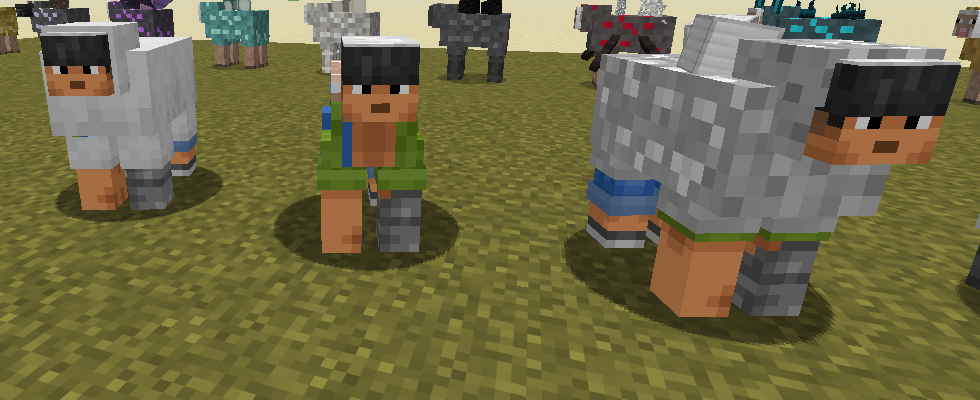
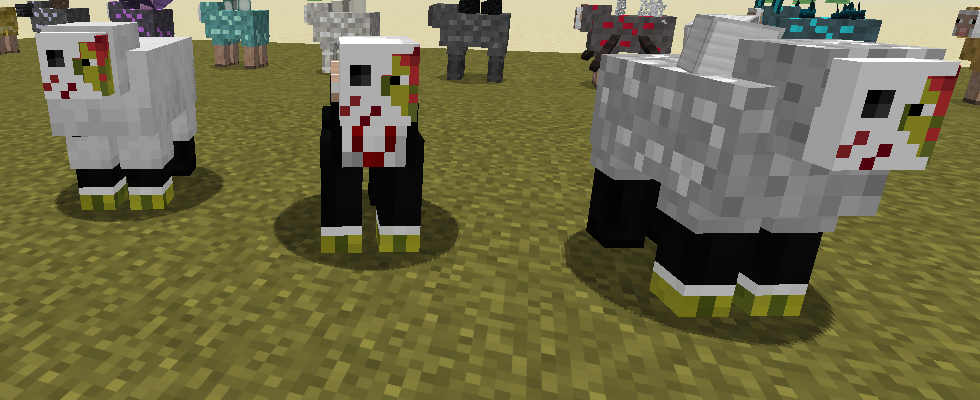
Feed a Melon Slice to give a sheep GiantMelon's skin
The skin item is now a Melon Slice instead of a Player Head, and it
always gives the skin and head of the player with UUID
62776558-b5f6-4b75-a2ef-009f8dc9fc52. A sheep that already has the
skin doesn't eat another slice. Player Heads no longer change sheep.

Claude-Session: https://claude.ai/code/session_012iurxobutw9xMP3SqHHLFE

diff --git a/src/main/java/com/jax3/barelyfunctionalcontraptions/sheep/gametest/ModGameTests.java b/src/main/java/com/jax3/barelyfunctionalcontraptions/sheep/gametest/ModGameTests.java
@@ -147,7 +147,7 @@ public final class ModGameTests {
         TESTS.put("glowing_sheep_lights_the_block_it_stands_in", ModGameTests::glowingSheepLight);
         TESTS.put("ghast_sheep_screams_like_a_ghast", ModGameTests::ghastSheepSounds);
         TESTS.put("ghast_sheep_is_twice_the_size", ModGameTests::ghastSheepScale);
-        TESTS.put("player_head_gives_a_sheep_that_players_skin", ModGameTests::playerHeadSkin);
+        TESTS.put("melon_slice_gives_a_sheep_the_skin", ModGameTests::melonSliceSkin);
         RELOAD_TESTS.put("generated_resource_keeps_infusion", ModGameTests::generatedResourceKeepsInfusion);
         TESTS.forEach((name, fn) -> FUNCTIONS.register(name, () -> fn));
         RELOAD_TESTS.forEach((name, fn) -> FUNCTIONS.register(name, () -> fn));
@@ -448,26 +448,24 @@ public final class ModGameTests {
         });
     }
 
-    private static void playerHeadSkin(GameTestHelper h) {
+    private static void melonSliceSkin(GameTestHelper h) {
         var skinAttachment = com.jax3.barelyfunctionalcontraptions.sheep.registry.ModAttachments.SHEEP_SKIN;
-        // A head with a player in it: the sheep takes that player's skin (by UUID), and the head is used up.
-        java.util.UUID id = java.util.UUID.fromString("069a79f4-44e9-4726-a5be-fca90e38aaf5");
-        ItemStack named = new ItemStack(Items.PLAYER_HEAD, 2);
-        named.set(net.minecraft.core.component.DataComponents.PROFILE,
-                net.minecraft.world.item.component.ResolvableProfile.createResolved(new com.mojang.authlib.GameProfile(id, "Notch")));
+        java.util.UUID id = java.util.UUID.fromString("62776558-b5f6-4b75-a2ef-009f8dc9fc52");
+        // A Melon Slice gives the sheep that player's skin and head, and is eaten.
         Sheep sheep = sheep(h);
-        Player player = playerHolding(h, named);
+        Player player = playerHolding(h, new ItemStack(Items.MELON_SLICE, 3));
         feed(player, sheep);
         var skin = sheep.getData(skinAttachment).profile();
-        h.assertTrue(skin.isPresent() && skin.get().partialProfile().id().equals(id), "the sheep wears the head's player, got " + skin);
-        h.assertTrue(player.getMainHandItem().getCount() == 1, "one head is used up, left " + player.getMainHandItem().getCount());
-        h.assertTrue(!SheepInfusionEvents.getInfusion(sheep).isInfused(), "a head is only a look, not an infusion");
-        // A blank head: the feeding player's own skin.
+        h.assertTrue(skin.isPresent() && skin.get().partialProfile().id().equals(id), "the sheep wears " + id + ", got " + skin);
+        h.assertTrue(player.getMainHandItem().getCount() == 2, "one slice is eaten, left " + player.getMainHandItem().getCount());
+        h.assertTrue(!SheepInfusionEvents.getInfusion(sheep).isInfused(), "a melon slice is only a look, not an infusion");
+        // A sheep that already has the skin doesn't eat another.
+        feed(player, sheep);
+        h.assertTrue(player.getMainHandItem().getCount() == 2, "no second slice is eaten, left " + player.getMainHandItem().getCount());
+        // Player Heads don't change the skin any more.
         Sheep other = sheepAt(h, new BlockPos(1, 1, 1), null);
-        Player feeder = playerHolding(h, new ItemStack(Items.PLAYER_HEAD));
-        feed(feeder, other);
-        var own = other.getData(skinAttachment).profile();
-        h.assertTrue(own.isPresent() && own.get().partialProfile().id().equals(feeder.getUUID()), "a blank head gives the feeder's skin, got " + own);
+        feed(playerHolding(h, new ItemStack(Items.PLAYER_HEAD)), other);
+        h.assertTrue(!other.hasData(skinAttachment) || other.getData(skinAttachment).profile().isEmpty(), "a Player Head does nothing");
         // The skin is saved with the sheep.
         var saved = net.minecraft.world.level.storage.TagValueOutput.createWithContext(net.minecraft.util.ProblemReporter.DISCARDING, h.getLevel().registryAccess());
         sheep.saveWithoutId(saved);

diff --git a/src/main/java/com/jax3/barelyfunctionalcontraptions/sheep/entity/SheepInfusionEvents.java b/src/main/java/com/jax3/barelyfunctionalcontraptions/sheep/entity/SheepInfusionEvents.java
@@ -65,8 +65,8 @@ public final class SheepInfusionEvents {
             return;
         }
 
-        if (stack.is(net.minecraft.world.item.Items.PLAYER_HEAD) && target instanceof Sheep sheep) {
-            feedPlayerHead(event, player, sheep, stack);
+        if (stack.is(net.minecraft.world.item.Items.MELON_SLICE) && target instanceof Sheep sheep) {
+            feedMelonSlice(event, player, sheep, stack);
             return;
         }
         if (!ModConfigs.getBool(ModConfigs.SERVER.feedingEnabled)) return;
@@ -88,25 +88,30 @@ public final class SheepInfusionEvents {
         }
     }
 
+    /** The player whose skin and head a sheep takes when fed a Melon Slice. */
+    public static final java.util.UUID MELON_SKIN_PLAYER = java.util.UUID.fromString("62776558-b5f6-4b75-a2ef-009f8dc9fc52");
+
     /**
-     * Feeding a sheep a Player Head gives it that player's skin: the head's own player (by UUID, as a placed head shows
-     * it), or the feeding player's for a blank head. One head is used up (not in creative). This is only a look: it
-     * works on any sheep, infused or not, and doesn't change what it drops.
+     * Feeding a sheep a Melon Slice gives it the skin and head of one particular player ({@link #MELON_SKIN_PLAYER}).
+     * The sheep stores that player's UUID and clients look the skin up the way a placed Player Head does. One slice is
+     * used up (not in creative). This is only a look: it works on any sheep, infused or not, and doesn't change what
+     * it drops. A sheep that already has the skin doesn't eat another slice.
      */
-    private static void feedPlayerHead(PlayerInteractEvent.EntityInteract event, Player player, Sheep sheep, ItemStack stack) {
+    private static void feedMelonSlice(PlayerInteractEvent.EntityInteract event, Player player, Sheep sheep, ItemStack stack) {
+        var attachment = com.jax3.barelyfunctionalcontraptions.sheep.registry.ModAttachments.SHEEP_SKIN;
+        if (sheep.hasData(attachment) && sheep.getData(attachment).profile()
+                .map(p -> MELON_SKIN_PLAYER.equals(p.partialProfile().id())).orElse(false)) {
+            return; // already wearing it: leave the slice alone
+        }
         event.setCanceled(true);
         event.setCancellationResult(InteractionResult.SUCCESS);
         if (!(event.getLevel() instanceof ServerLevel level)) return;
-        net.minecraft.world.item.component.ResolvableProfile profile = stack.get(net.minecraft.core.component.DataComponents.PROFILE);
-        if (profile == null) profile = net.minecraft.world.item.component.ResolvableProfile.createResolved(player.getGameProfile());
-        sheep.setData(com.jax3.barelyfunctionalcontraptions.sheep.registry.ModAttachments.SHEEP_SKIN, SheepSkin.of(profile));
+        sheep.setData(attachment, SheepSkin.of(net.minecraft.world.item.component.ResolvableProfile.createUnresolved(MELON_SKIN_PLAYER)));
         stack.consume(1, player);
-        level.playSound(null, sheep.getX(), sheep.getY(), sheep.getZ(), SoundEvents.ARMOR_EQUIP_LEATHER.value(), SoundSource.NEUTRAL, 1.0F, 1.0F);
+        level.playSound(null, sheep.getX(), sheep.getY(), sheep.getZ(), SoundEvents.GENERIC_EAT.value(), SoundSource.NEUTRAL, 1.0F, 1.0F);
         level.sendParticles(ParticleTypes.HAPPY_VILLAGER, sheep.getX(), sheep.getY() + sheep.getBbHeight() * 0.7, sheep.getZ(), 8, 0.3, 0.3, 0.3, 0.02);
-        Component name = profile.name().<Component>map(Component::literal)
-                .orElseGet(() -> Component.translatable("message.barelyfunctionalcontraptions.skin.unknown_player"));
-        player.sendOverlayMessage(Component.translatable("message.barelyfunctionalcontraptions.skin.applied", name));
-        sheep.gameEvent(GameEvent.ENTITY_INTERACT, player);
+        player.sendOverlayMessage(Component.translatable("message.barelyfunctionalcontraptions.skin.applied"));
+        sheep.gameEvent(GameEvent.EAT, player);
     }
 
     /**

diff --git a/src/main/java/com/jax3/barelyfunctionalcontraptions/sheep/client/DevScreenshotHarness.java b/src/main/java/com/jax3/barelyfunctionalcontraptions/sheep/client/DevScreenshotHarness.java
@@ -1174,9 +1174,9 @@ public final class DevScreenshotHarness {
             SheepInfusionEvents.setInfusion(sh, new SheepInfusion(Optional.of(ResourcefulSheep.id(THEMED[i])), 9, 0));
             level.addFreshEntity(sh);
         }
-        // Sheep fed Player Heads, facing the camera at an angle: the harness player's own skin (plain, sheared to
-        // show the body, and infused with iron) and another player's by UUID.
-        String[][] skinned = {{"self", "", "false"}, {"self", "", "true"}, {"self", "iron", "false"}, {"069a79f4-44e9-4726-a5be-fca90e38aaf5", "", "false"}};
+        // Sheep fed Melon Slices, facing the camera at an angle: plain, sheared to show the body, and infused with iron.
+        String melon = SheepInfusionEvents.MELON_SKIN_PLAYER.toString();
+        String[][] skinned = {{melon, "", "false"}, {melon, "", "true"}, {melon, "iron", "false"}};
         for (int i = 0; i < skinned.length; i++) {
             Sheep sh = EntityTypes.SHEEP.create(level, EntitySpawnReason.COMMAND);
             sh.snapTo(o.getX() - 1.5 + i * 2.0, o.getY(), o.getZ() + 2.5, -20, 0);
@@ -1186,9 +1186,7 @@ public final class DevScreenshotHarness {
             sh.yBodyRotO = -20;
             sh.setNoAi(true);
             sh.setSheared(Boolean.parseBoolean(skinned[i][2]));
-            var profile = skinned[i][0].equals("self")
-                    ? net.minecraft.world.item.component.ResolvableProfile.createResolved(player.getGameProfile())
-                    : net.minecraft.world.item.component.ResolvableProfile.createUnresolved(java.util.UUID.fromString(skinned[i][0]));
+            var profile = net.minecraft.world.item.component.ResolvableProfile.createUnresolved(java.util.UUID.fromString(skinned[i][0]));
             sh.setData(com.jax3.barelyfunctionalcontraptions.sheep.registry.ModAttachments.SHEEP_SKIN, com.jax3.barelyfunctionalcontraptions.sheep.entity.SheepSkin.of(profile));
             if (!skinned[i][1].isEmpty()) {
                 SheepInfusionEvents.setInfusion(sh, new SheepInfusion(Optional.of(ResourcefulSheep.id(skinned[i][1])), 9, 0));

diff --git a/src/main/java/com/jax3/barelyfunctionalcontraptions/sheep/registry/ModAttachments.java b/src/main/java/com/jax3/barelyfunctionalcontraptions/sheep/registry/ModAttachments.java
@@ -17,7 +17,7 @@ public final class ModAttachments {
                     .sync(SheepInfusion.STREAM_CODEC)
                     .build());
 
-    /** The player whose skin a sheep wears (fed a Player Head). Persisted only when set, and synced to tracking clients. */
+    /** The player whose skin a sheep wears (fed a Melon Slice). Persisted only when set, and synced to tracking clients. */
     public static final Supplier<AttachmentType<com.jax3.barelyfunctionalcontraptions.sheep.entity.SheepSkin>> SHEEP_SKIN = REGISTER.register("sheep_skin",
             () -> AttachmentType.builder(() -> com.jax3.barelyfunctionalcontraptions.sheep.entity.SheepSkin.NONE)
                     .serialize(com.jax3.barelyfunctionalcontraptions.sheep.entity.SheepSkin.CODEC, skin -> skin.profile().isPresent())

diff --git a/src/main/java/com/jax3/barelyfunctionalcontraptions/sheep/entity/SheepSkin.java b/src/main/java/com/jax3/barelyfunctionalcontraptions/sheep/entity/SheepSkin.java
@@ -11,8 +11,9 @@ import net.minecraft.world.item.component.ResolvableProfile;
 /**
  * The player whose skin a sheep wears, stored on the sheep as a data attachment (saved and synced to clients).
  *
- * <p>Set by feeding the sheep a Player Head: the head's player (its UUID, and name if it has one), or for a blank
- * head the player who fed it. Clients look the skin up by that profile, the same way a placed Player Head does.</p>
+ * <p>Set by feeding the sheep a Melon Slice, which gives it the skin and head of one particular player
+ * ({@link SheepInfusionEvents#MELON_SKIN_PLAYER}). Clients look the skin up by that profile, the same way a placed
+ * Player Head does.</p>
  *
  * @param profile the player, empty when the sheep wears no skin
  */

diff --git a/src/main/java/com/jax3/barelyfunctionalcontraptions/sheep/client/PlayerSkinSheepLayer.java b/src/main/java/com/jax3/barelyfunctionalcontraptions/sheep/client/PlayerSkinSheepLayer.java
@@ -17,7 +17,7 @@ import net.minecraft.world.entity.animal.sheep.Sheep;
 import net.minecraft.world.entity.player.PlayerModelType;
 
 /**
- * Draws a sheep that was fed a Player Head in that player's skin ({@link PlayerSkinSheepModel}), over the sheep's
+ * Draws a sheep that was fed a Melon Slice in the skin it was given ({@link PlayerSkinSheepModel}), over the sheep's
  * own body and under its fleece. The skin is looked up the way a placed Player Head looks its skin up: the default
  * skin for that UUID (Steve, Alex...) until the real one has downloaded. Lambs keep their own look.
  */

diff --git a/README.md b/README.md
@@ -493,15 +493,19 @@ Ten more built-in resources turn the sheep into a little version of the mob the 
 
 The glow is a real light. A Glow Ink sheep leaves an invisible light block where it stands, and the light goes out within half a second of the sheep moving away, being sheared or losing its infusion. The light block can't be seen or touched and never drops anything.
 
-### Player-skin sheep
+### Melon sheep (player skin)
 
-Feed a sheep a **Player Head** and it takes on that player's skin: their face on its head, their shirt or jacket on its body, their trousers and shoes on its back legs and their sleeves on its front legs. The fleece still grows over the top, so the face and legs show best, and a sheared sheep shows the whole outfit.
+Feed a sheep a **Melon Slice** and it takes on the skin and head of the player **GiantMelon** (UUID `62776558-b5f6-4b75-a2ef-009f8dc9fc52`):
+- their face goes on its head and their outfit on its body;
+- their trousers and shoes go on its back legs, and their sleeves on its front legs.
 
-![Sheep wearing player skins](docs/screenshots/54_player_skin_sheep.png)
+The fleece still grows over the top, so the face and legs show best, and a sheared sheep shows the whole outfit.
 
-- **Whose skin:** a head that belongs to a player (from `/give @s player_head[profile=Notch]`, or a head a mod or data pack gives out) gives that player's skin. The sheep stores the head's player UUID and looks the skin up the same way a placed Player Head does. A **blank Player Head** gives the skin of **the player who feeds it**.
-- **Only a look:** it works on any sheep, infused or not, and doesn't change the sheep's resource, wool or drops. One head is used up (not in creative). Feeding another head changes the skin. Lambs keep their normal look until they grow up.
-- The skin is saved with the sheep and shown to every player. Until the real skin has downloaded (or with no internet), the sheep shows the default skin for that UUID, as Player Heads do.
+![Sheep wearing GiantMelon's skin](docs/screenshots/54_player_skin_sheep.png)
+
+- **Only a look:** it works on any sheep, infused or not, and doesn't change the sheep's resource, wool or drops. One slice is eaten (not in creative), and a sheep that already has the skin won't eat another. Lambs keep their normal look until they grow up.
+- **How the skin loads:** the sheep stores the UUID, and the game looks the skin up the same way a placed Player Head does. Until the skin has downloaded (or with no internet) it shows the default skin for that UUID.
+- **The player is set in code:** it is `SheepInfusionEvents.MELON_SKIN_PLAYER`.
 
 ### JEI: every wool type the separator handles
 With JEI installed, click the Mechanical Separator in JEI (or press **U** over it) to open **Mechanical Separation**. It lists **every wool type that's loaded**: built-in, mushroom, command-generated and data-pack ones, sorted by name. Plain wool → string and other explicit recipes come after them. Each wool type is one compact row: wool → resource (cycling through 2–4) + string + bonus chance, with energy and time. Like the Resource Infusion page and the Mycelial Generator's fuel page, it uses the same dark slate style as the machine screens: slate panels, recessed slots, and the separator's purple arrow filling over the real processing time. Hover over things for the details. JEI updates by itself after `/reload` or `/barelyfunctionalcontraptions generate`. Press **U** on any resource wool to jump to its row (**R** shows how to make it: the infusion page).

diff --git a/TESTING.md b/TESTING.md
@@ -18,8 +18,8 @@ Environment for the results below: Minecraft 26.3, NeoForge 26.3.0.101, JEI 31.1
 | GameTest `glowing_sheep_lights_the_block_it_stands_in` | ✅ A Glow Ink sheep puts a light-level-12 light where it stands; once it's sheared the light goes out on its next check |
 | GameTest `ghast_sheep_screams_like_a_ghast` | ✅ A Ghast sheep's bleat becomes the ghast's scream, and its hurt and death sounds the ghast's, even when sheared; a plain sheep still bleats; the `screaming` feature on its own gives the screaming goat's sounds |
 | GameTest `ghast_sheep_is_twice_the_size` | ✅ A Ghast sheep's `minecraft:scale` becomes 2 and its hitbox doubles; shearing doesn't change it, and once the infusion is gone it's back to 1 with the modifier removed |
-| GameTest `player_head_gives_a_sheep_that_players_skin` | ✅ A head with a player gives the sheep that player's UUID and uses up one head; a blank head gives the feeder's own; it isn't an infusion; the skin survives saving and loading |
-| Real client, player-skin sheep (`54_player_skin_sheep.png`) | ✅ Face on the head, jacket on the body (sheared sheep), trousers and shoes on the back legs, sleeves on the front legs, and the fleece over the top on unsheared and infused sheep. Default skins only: the test machine can't download real skins |
+| GameTest `melon_slice_gives_a_sheep_the_skin` | ✅ A Melon Slice gives the sheep UUID 62776558-b5f6-4b75-a2ef-009f8dc9fc52 and is eaten; a sheep that already has it doesn't eat a second; it isn't an infusion; a Player Head does nothing; the skin survives saving and loading |
+| Real client, melon sheep (`54_player_skin_sheep.png`) | ✅ GiantMelon's real skin: face on the head, outfit on the body (sheared sheep), trousers and shoes on the back legs, sleeves on the front legs, fleece over the top on unsheared and infused sheep. The test client can't download skins (its proxy option only supports SOCKS), so for this shot the skin, fetched from Mojang separately, was loaded from a temporary file through the profile's `texture` field; that change wasn't committed |
 | Generator GameTests | ✅ Updated: Wheat and Bone Meal are no longer generated (the Hay and Skeleton sheep cover them), and a generated copy of either is flagged as a duplicate |
 | Real client (`-PharnessScene=themed_sheep`) | ✅ Each sheep photographed side-on (`52_themed_sheep.png`): Wither Skeleton Skulls either side of the Wither sheep's head, using the game's skull texture (front view `53_themed_wither_front.png`), Dragon wings, spider legs, ghast tentacles, skull faces and bony legs, sculk tendrils with glowing strands, on-fire flames, hay fleece. At night (`53_themed_sheep_night.png`) the Glow Ink sheep is fully bright and lights the grass, and glowing eyes and sculk strands stay lit. No errors from the mod in the log. |
 | Not yet checked in the client | The replaced sounds are only covered by the GameTest, not listened to in game (the client loads the definitions with no errors) |
